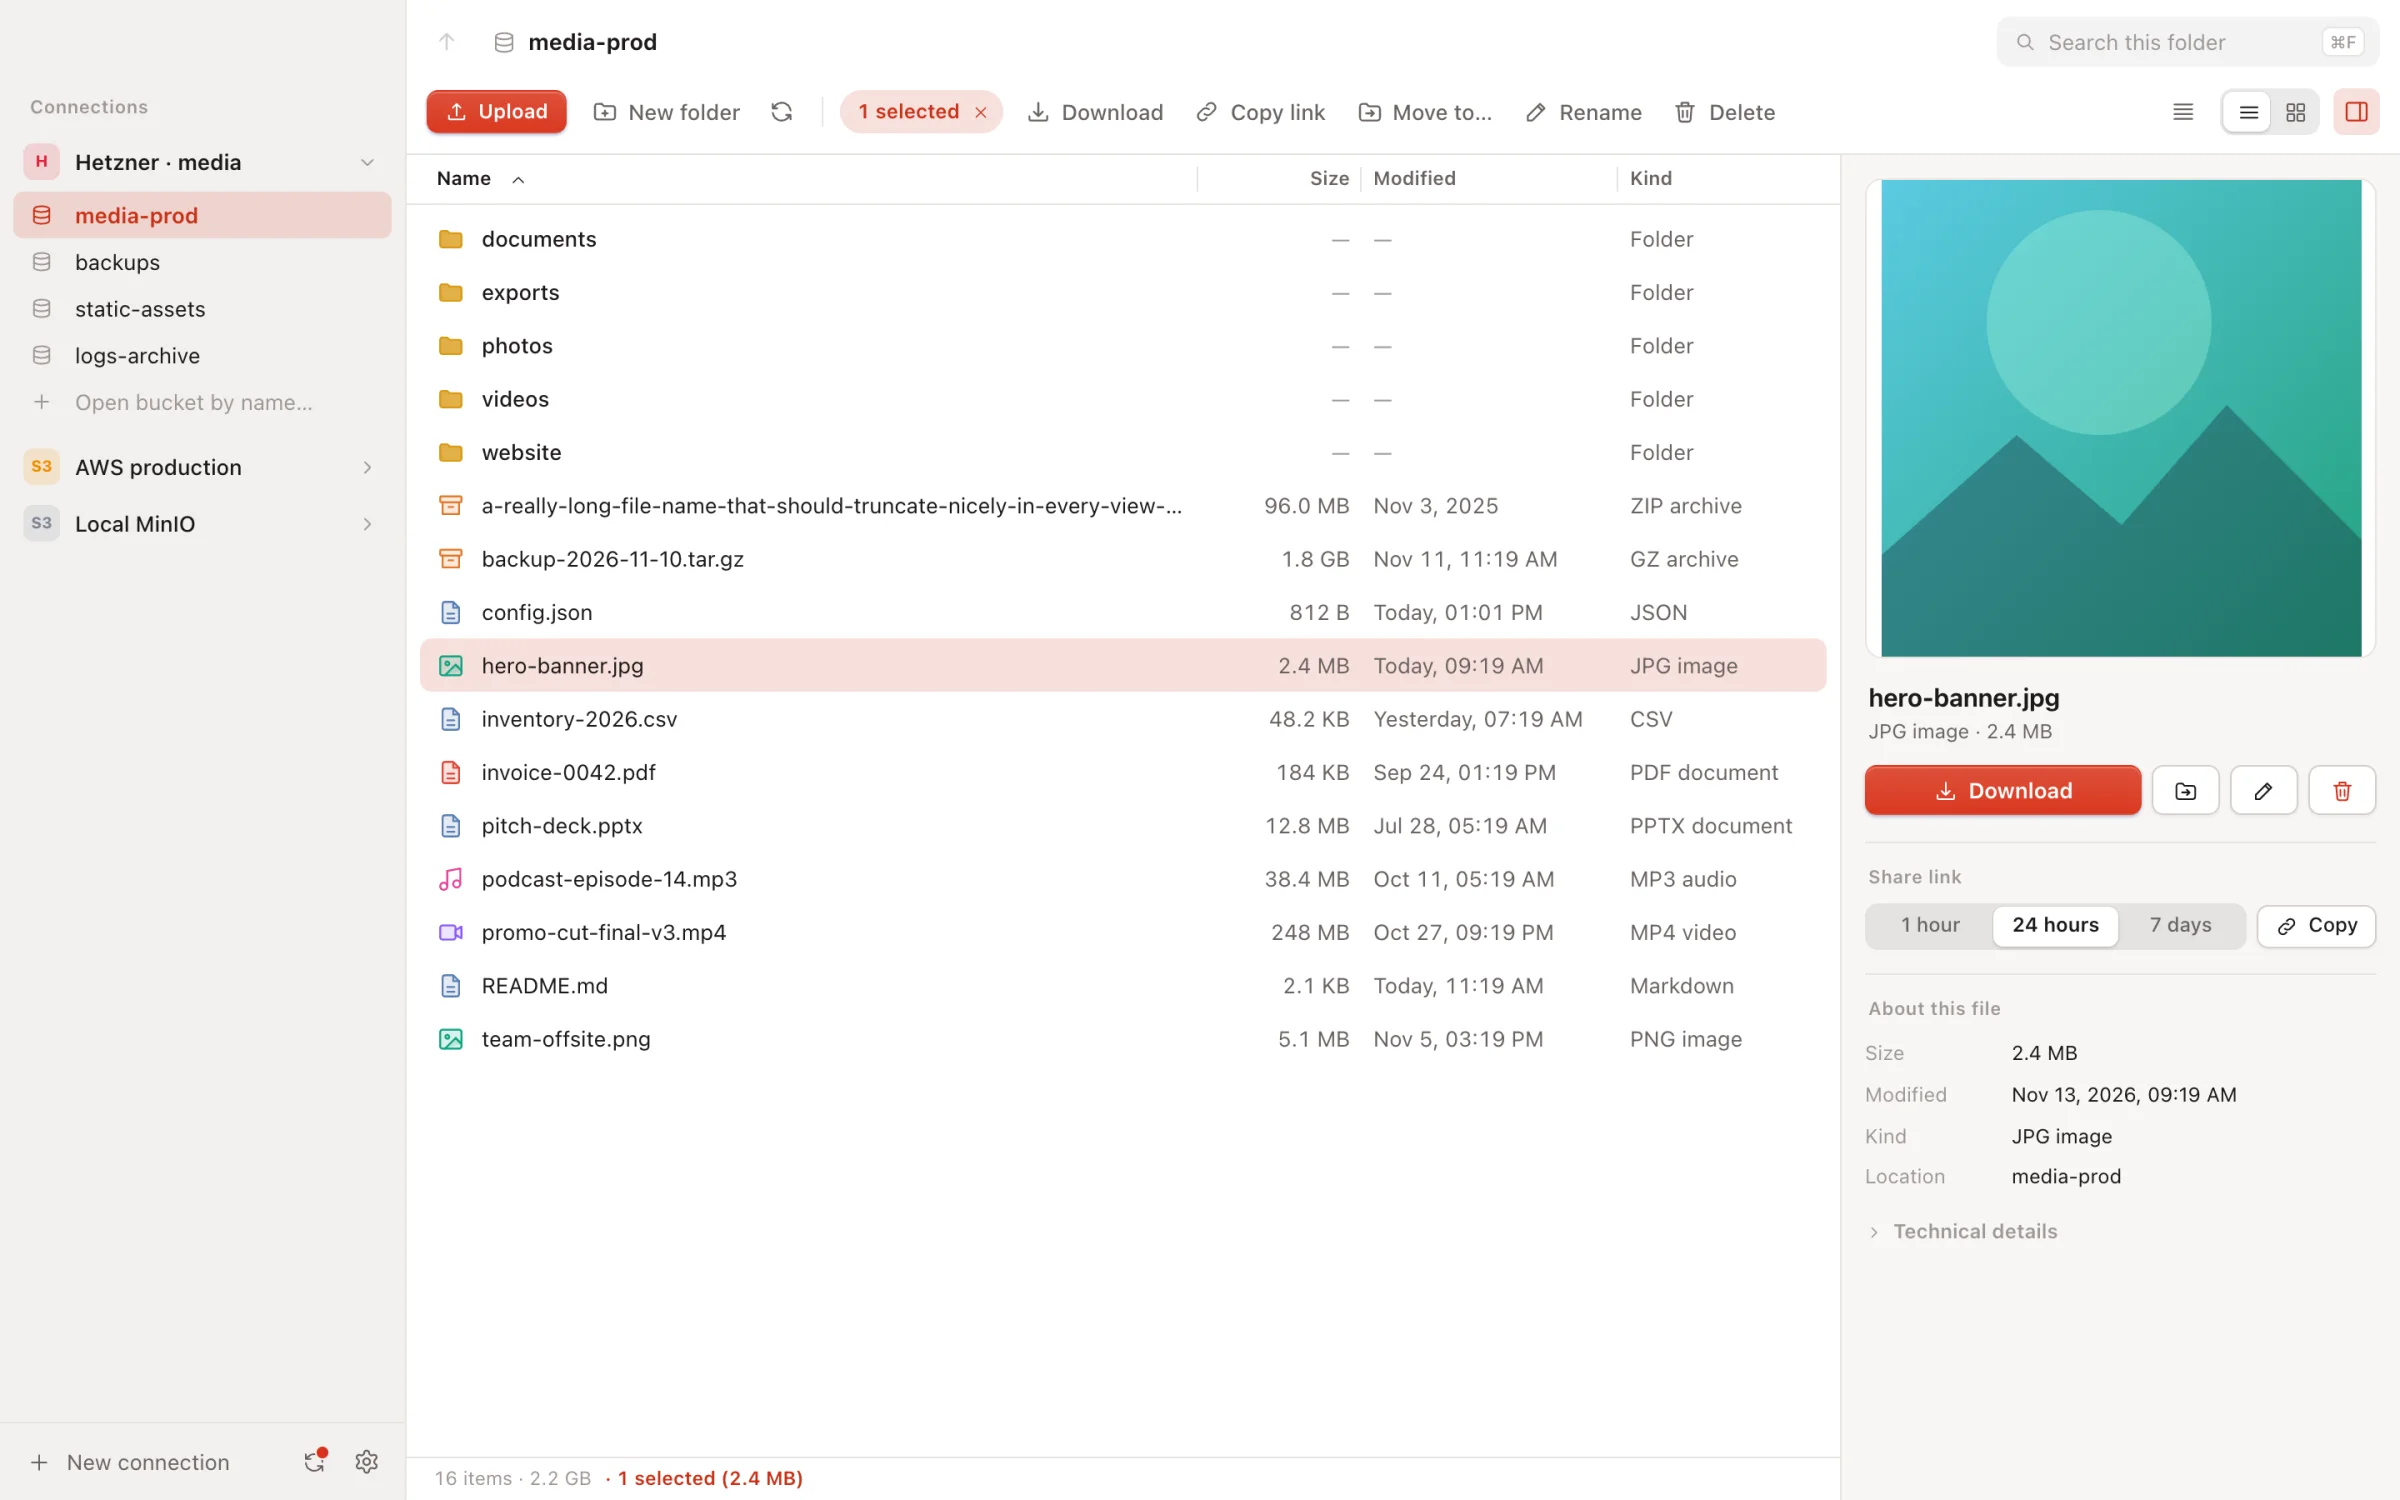
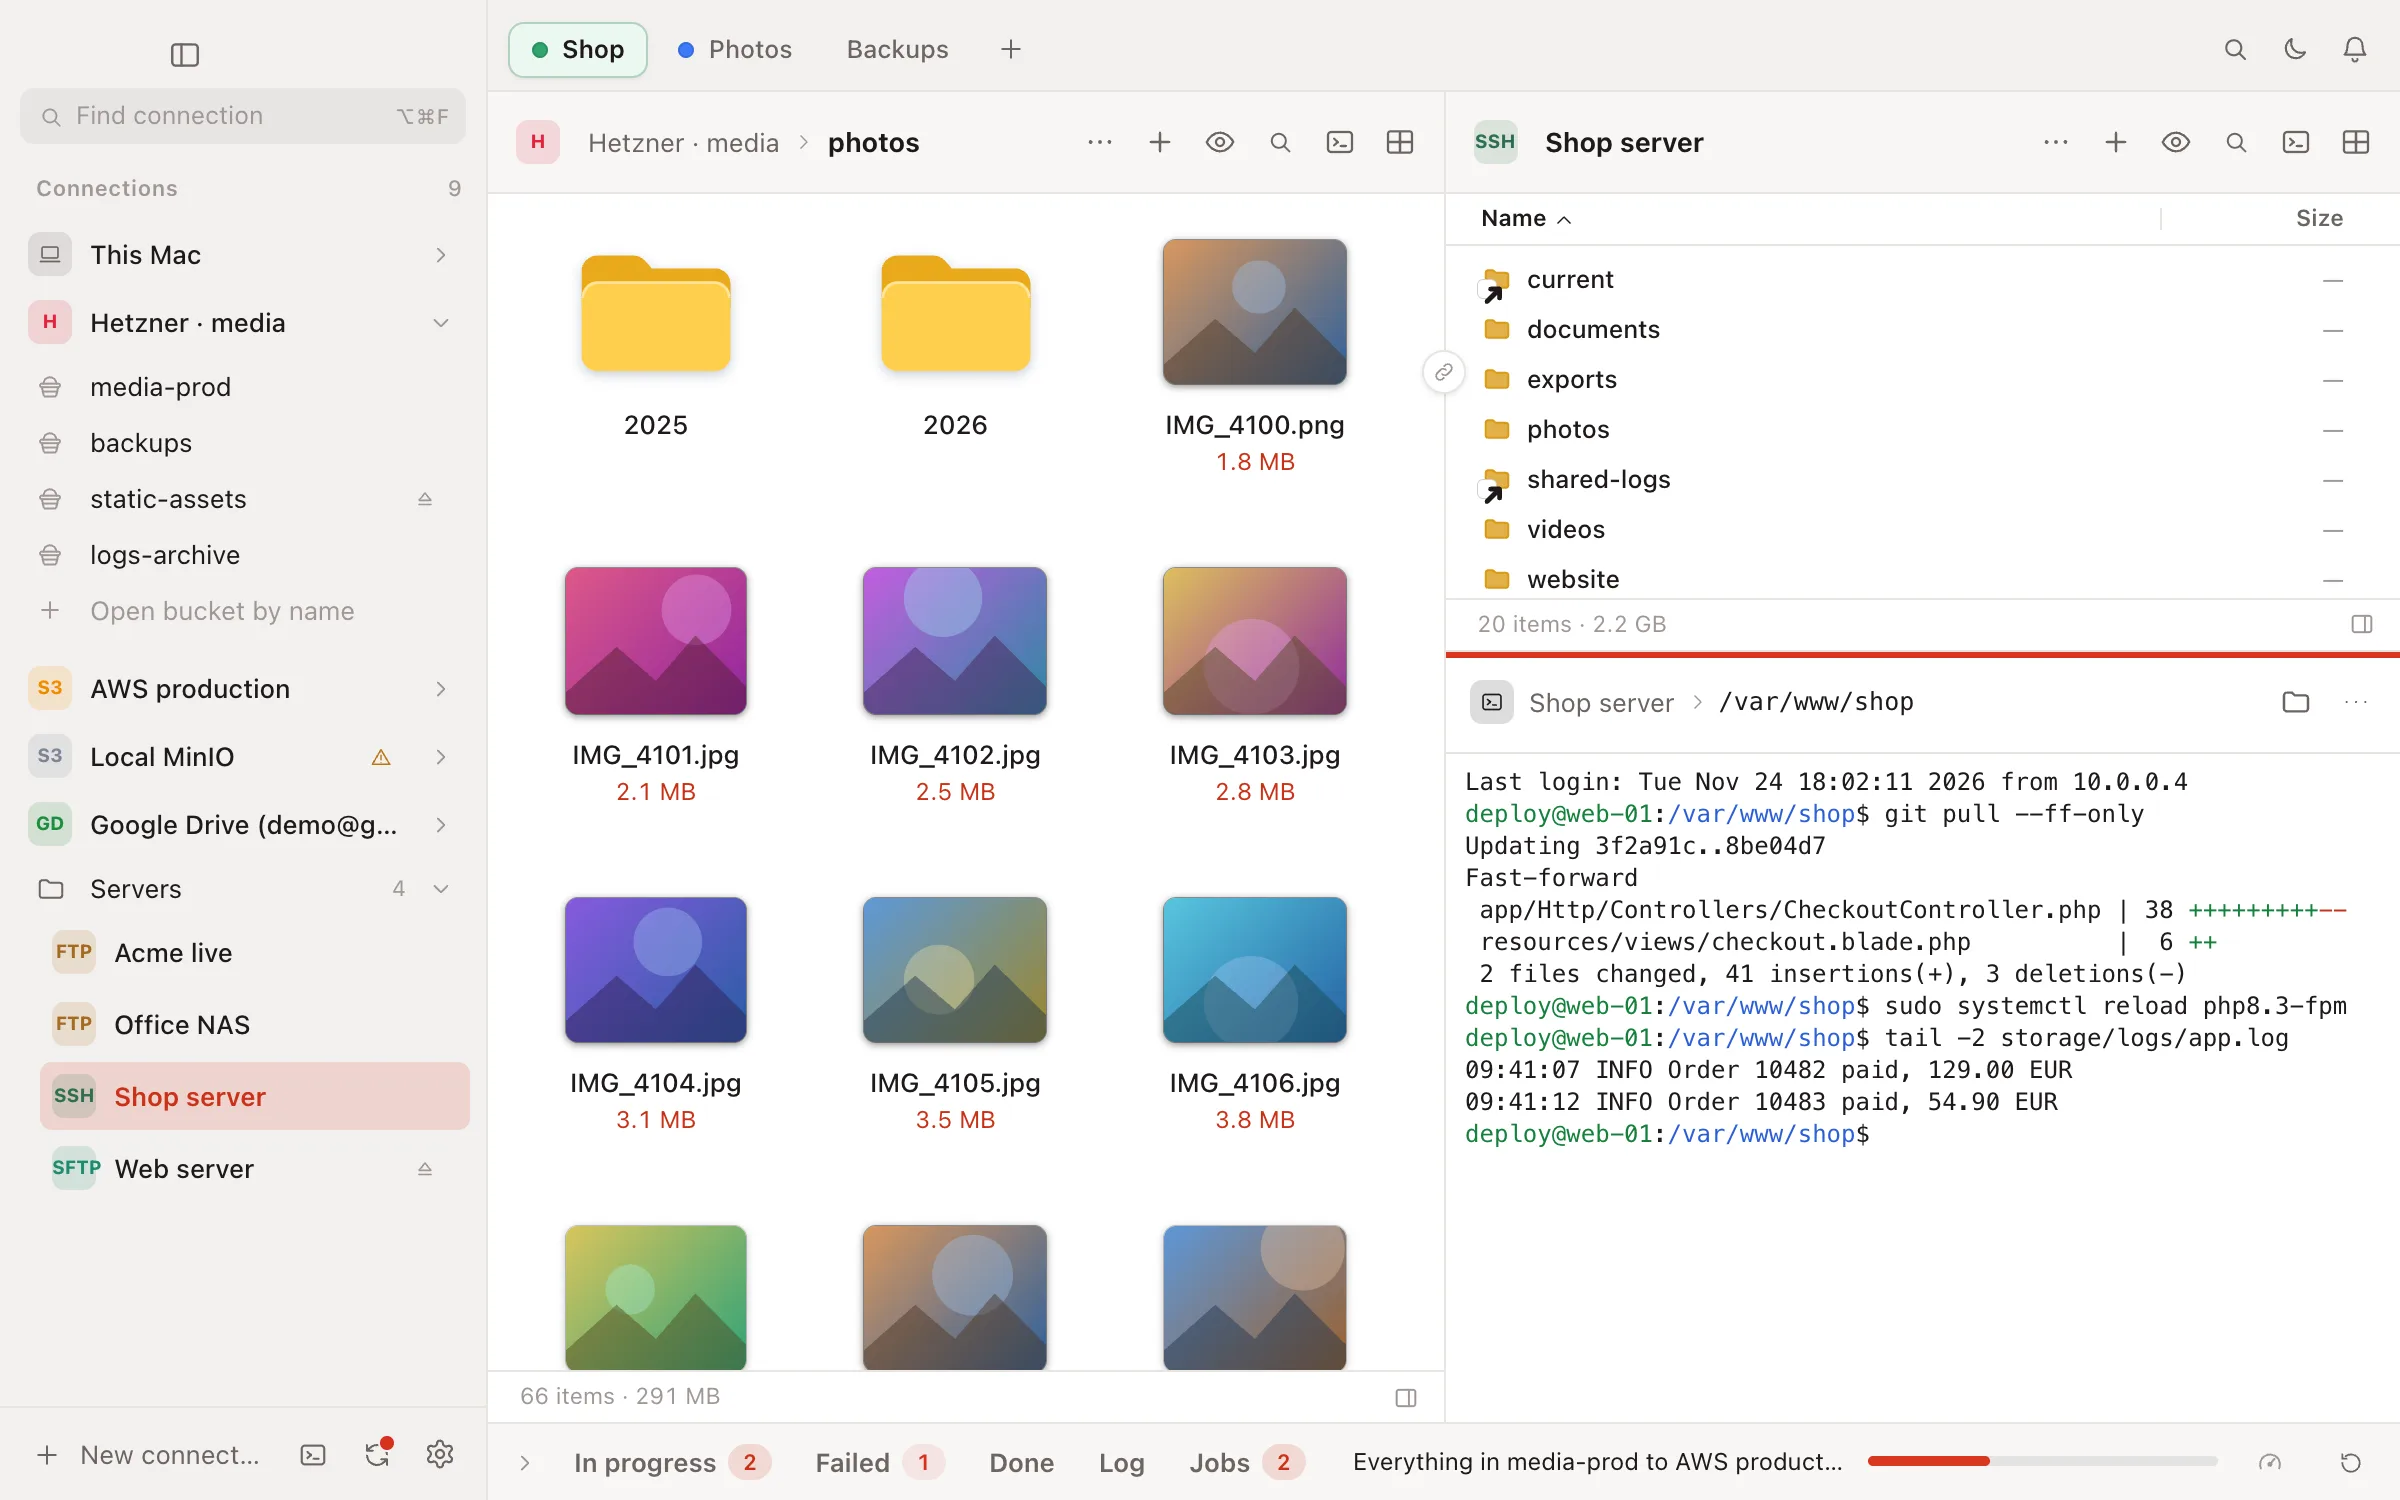
Website: new screenshots from the current app (three panes with a bucket, a server and its terminal; the connection picker; folder sync) in light and dark, and a new share image; sync errors' Details sits under the message, not centred; shorter mock log lines

diff --git a/website/index.html b/website/index.html
@@ -28,13 +28,13 @@
 <meta property="og:image:type" content="image/jpeg">
 <meta property="og:image:width" content="1200">
 <meta property="og:image:height" content="630">
-<meta property="og:image:alt" content="Kybl, a red polka-dot bucket, next to the app window showing files in an S3 bucket.">
+<meta property="og:image:alt" content="Kybl, a red polka-dot bucket, next to the app window with a bucket, a server's files and an SSH terminal side by side.">
 
 <meta name="twitter:card" content="summary_large_image">
 <meta name="twitter:title" content="Kybl · Every bucket, drive and server in one window">
 <meta name="twitter:description" content="One fast, free file manager for buckets, cloud drives and servers, with an SSH terminal and folder sync."
 <meta name="twitter:image" content="https://kybl.app/assets/og.jpg">
-<meta name="twitter:image:alt" content="Kybl, a red polka-dot bucket, next to the app window showing files in an S3 bucket.">
+<meta name="twitter:image:alt" content="Kybl, a red polka-dot bucket, next to the app window with a bucket, a server's files and an SSH terminal side by side.">
 
 <link rel="icon" href="/favicon.ico" sizes="any">
 <link rel="icon" href="/assets/mark.svg" type="image/svg+xml">
@@ -230,7 +230,7 @@
       <span class="lights" aria-hidden="true"><i></i><i></i><i></i></span>
       <picture>
         <source srcset="assets/shots/app-browse-dark.webp" media="(prefers-color-scheme: dark)">
-        <img src="assets/shots/app-browse.webp" width="2400" height="1500" alt="Kybl showing a Hetzner bucket: a file list on the left, a selected photo with its preview, a download button and share link options on the right." fetchpriority="high">
+        <img src="assets/shots/app-browse.webp" width="2400" height="1500" alt="Kybl with three panes: photos in a Hetzner bucket on the left, the files of an SSH server on the right, and a terminal on that server below it running a deploy." fetchpriority="high">
       </picture>
     </div>
     <svg class="hero-kb" viewBox="0 0 200 200" aria-hidden="true">
@@ -299,7 +299,7 @@
       <div class="shot shot-dialog">
         <picture>
           <source srcset="assets/shots/app-connect-dark.webp" media="(prefers-color-scheme: dark)">
-          <img src="assets/shots/app-connect.webp" width="1080" height="1332" loading="lazy" alt="The New connection dialog: Kybl Storage, S3-compatible, Azure Blob Storage and Google Cloud Storage; Google Drive, OneDrive and Dropbox; WebDAV, SFTP, SSH and FTP.">
+          <img src="assets/shots/app-connect.webp" width="1120" height="1254" loading="lazy" alt="The New connection picker: Kybl Storage; Google Drive, OneDrive and Dropbox; S3-compatible, Azure Blob Storage and Google Cloud Storage; WebDAV, SSH, SFTP and FTP, and Import connections.">
         </picture>
       </div>
     </div>
@@ -483,7 +483,7 @@ Updating 3f2a91c..8be04d7
       <div class="shot shot-sync">
         <picture>
           <source srcset="assets/shots/app-sync-dark.webp" media="(prefers-color-scheme: dark)">
-          <img src="assets/shots/app-sync.webp" width="1600" height="1100" loading="lazy" alt="Folder sync settings: an Exports folder uploading to a bucket is up to date, an assets folder shows an access error in plain words.">
+          <img src="assets/shots/app-sync.webp" width="1572" height="966" loading="lazy" alt="Folder sync settings: an Exports folder uploading to a bucket is up to date, an assets folder shows an access error in plain words, and a two-way synced site kept two conflicts as copies.">
         </picture>
       </div>
       <div class="menubar" aria-hidden="true">

diff --git a/src/terminal/devTerminal.ts b/src/terminal/devTerminal.ts
@@ -32,9 +32,9 @@ const shotSession = (f: Fake) => {
   send(f, " resources/views/checkout.blade.php          |  6 \x1b[32m++\x1b[0m\r\n");
   send(f, " 2 files changed, 41 insertions(+), 3 deletions(-)\r\n");
   send(f, `${P()}sudo systemctl reload php8.3-fpm\r\n`);
-  send(f, `${P()}tail -n 2 storage/logs/laravel.log\r\n`);
-  send(f, "[2026-11-25 09:41:07] production.INFO: Order 10482 paid (card, 129.00 EUR)\r\n");
-  send(f, "[2026-11-25 09:41:12] production.INFO: Order 10483 paid (PayPal, 54.90 EUR)\r\n");
+  send(f, `${P()}tail -2 storage/logs/app.log\r\n`);
+  send(f, "09:41:07 INFO Order 10482 paid, 129.00 EUR\r\n");
+  send(f, "09:41:12 INFO Order 10483 paid, 54.90 EUR\r\n");
 };
 
 function run(id: number, f: Fake, cmd: string) {

diff --git a/src/styles.css b/src/styles.css
@@ -1202,7 +1202,8 @@ kbd {
   white-space: pre-wrap;
   word-break: break-word;
 }
-.result .err-details summary {
+.result .err-details summary,
+.sync-error .err-details summary {
   margin: 0;
   padding-left: 0;
 }
